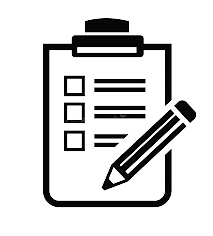
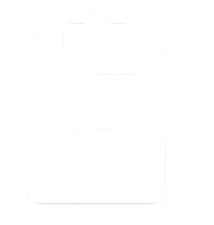
Routing to JobDesc
Created button to route the Apply site to JobDescriptionView.vue

Changed region(s): [[0.1972, 0.0622, 0.9296, 0.9333], [0.2817, 0.3111, 0.7042, 0.6533]]

diff --git a/src/views/JobDescriptionView.vue b/src/views/JobDescriptionView.vue
@@ -1,20 +1,43 @@
 <script setup>
+import { useRouter } from 'vue-router'
 
 import JobDescription from '../components/description.vue'
 import Address from '../components/address.vue'
 import Date from '@/components/date.vue'
 
+// Router initialisieren
+const router = useRouter()
+
+// Funktion zum Navigieren
+function goToApply() {
+  router.push('/apply') // Route anpassen, falls nötig
+}
 </script>
 
 <template>
     <div id="box">
         <div id="description">
-            <JobDescription jobtitle="Lorem Ipsum" description="Soem sugus", requirements="Sugus" offer="Pizza"/>
+            <JobDescription 
+                jobtitle="Lorem Ipsum" 
+                description="Soem sugus" 
+                requirements="Sugus" 
+                offer="Pizza"
+            />
             <Date id="date" date="2342-12-12" time="19:00"/> 
         </div>        
         <div id="address">
-            <Address location-icon="src/images/place-marker-icon.jpg", location="Visp" postal-code=3911 canton="VS" building-icon="src/images/building-icon.jpg" company-name="Informatik AG" ></Address>
+            <Address 
+                location-icon="src/images/place-marker-icon.jpg" 
+                location="Visp" 
+                postal-code="3911" 
+                canton="VS" 
+                building-icon="src/images/building-icon.jpg" 
+                company-name="Informatik AG" 
+            />
         </div>
+        <button @click="goToApply">
+            <img src="@/images/clipboard.png" alt="Clipboard to Apply">
+        </button>
     </div>
 </template>
 
@@ -27,6 +50,7 @@ import Date from '@/components/date.vue'
         padding-inline-start: 1%;
         margin-inline: 5%;
         border-radius: 30px;
+        position: relative;
     }
     #description{
         display: flex;
@@ -35,13 +59,31 @@ import Date from '@/components/date.vue'
    #address {
     display: flex;
     flex-direction: column;
-    /* justify-content: space-between;  <-- REMOVE THIS */
-    justify-content: flex-start;      /* <-- ADD THIS */
-    gap: 20px;                        /* Add a specific gap instead */
+
+    justify-content: flex-start;   
+    gap: 20px;                      
     padding-right: 3%;
     padding-top: 1px;   
 }
-  
+button{
+    position: absolute;
+    bottom: 15px;
+    right: 15px;
+    width: 50px;
+    height: 50px;
+    border-radius: 50%;
+    border: none;
+    background-color: #62538b;
+    cursor: pointer;
+    display: flex;
+    justify-content: center;
+    align-items: center;
+}
+
+button img{
+    width: 40px;
+    height: 40px;
+}
 </style>
 
 

diff --git a/src/routes/index.js b/src/routes/index.js
@@ -7,6 +7,11 @@ const router = createRouter({
       path: '/jobdescription',
       name: 'jobdescription',
       component: () => import('../views/JobDescriptionView.vue'),
+    },
+    {
+      path: '/apply',
+      name: 'apply',
+      component: () => import('../views/ApplyView.vue'),
     }
   ],
 })

diff --git a/src/views/ApplyView.vue b/src/views/ApplyView.vue
@@ -1,0 +1,9 @@
+<script setup>
+</script>
+
+<template>
+  <div>
+    <h1>Neue Apply-Seite</h1>
+    <p>Hier kannst du später Bewerbungen einfügen.</p>
+  </div>
+</template>
